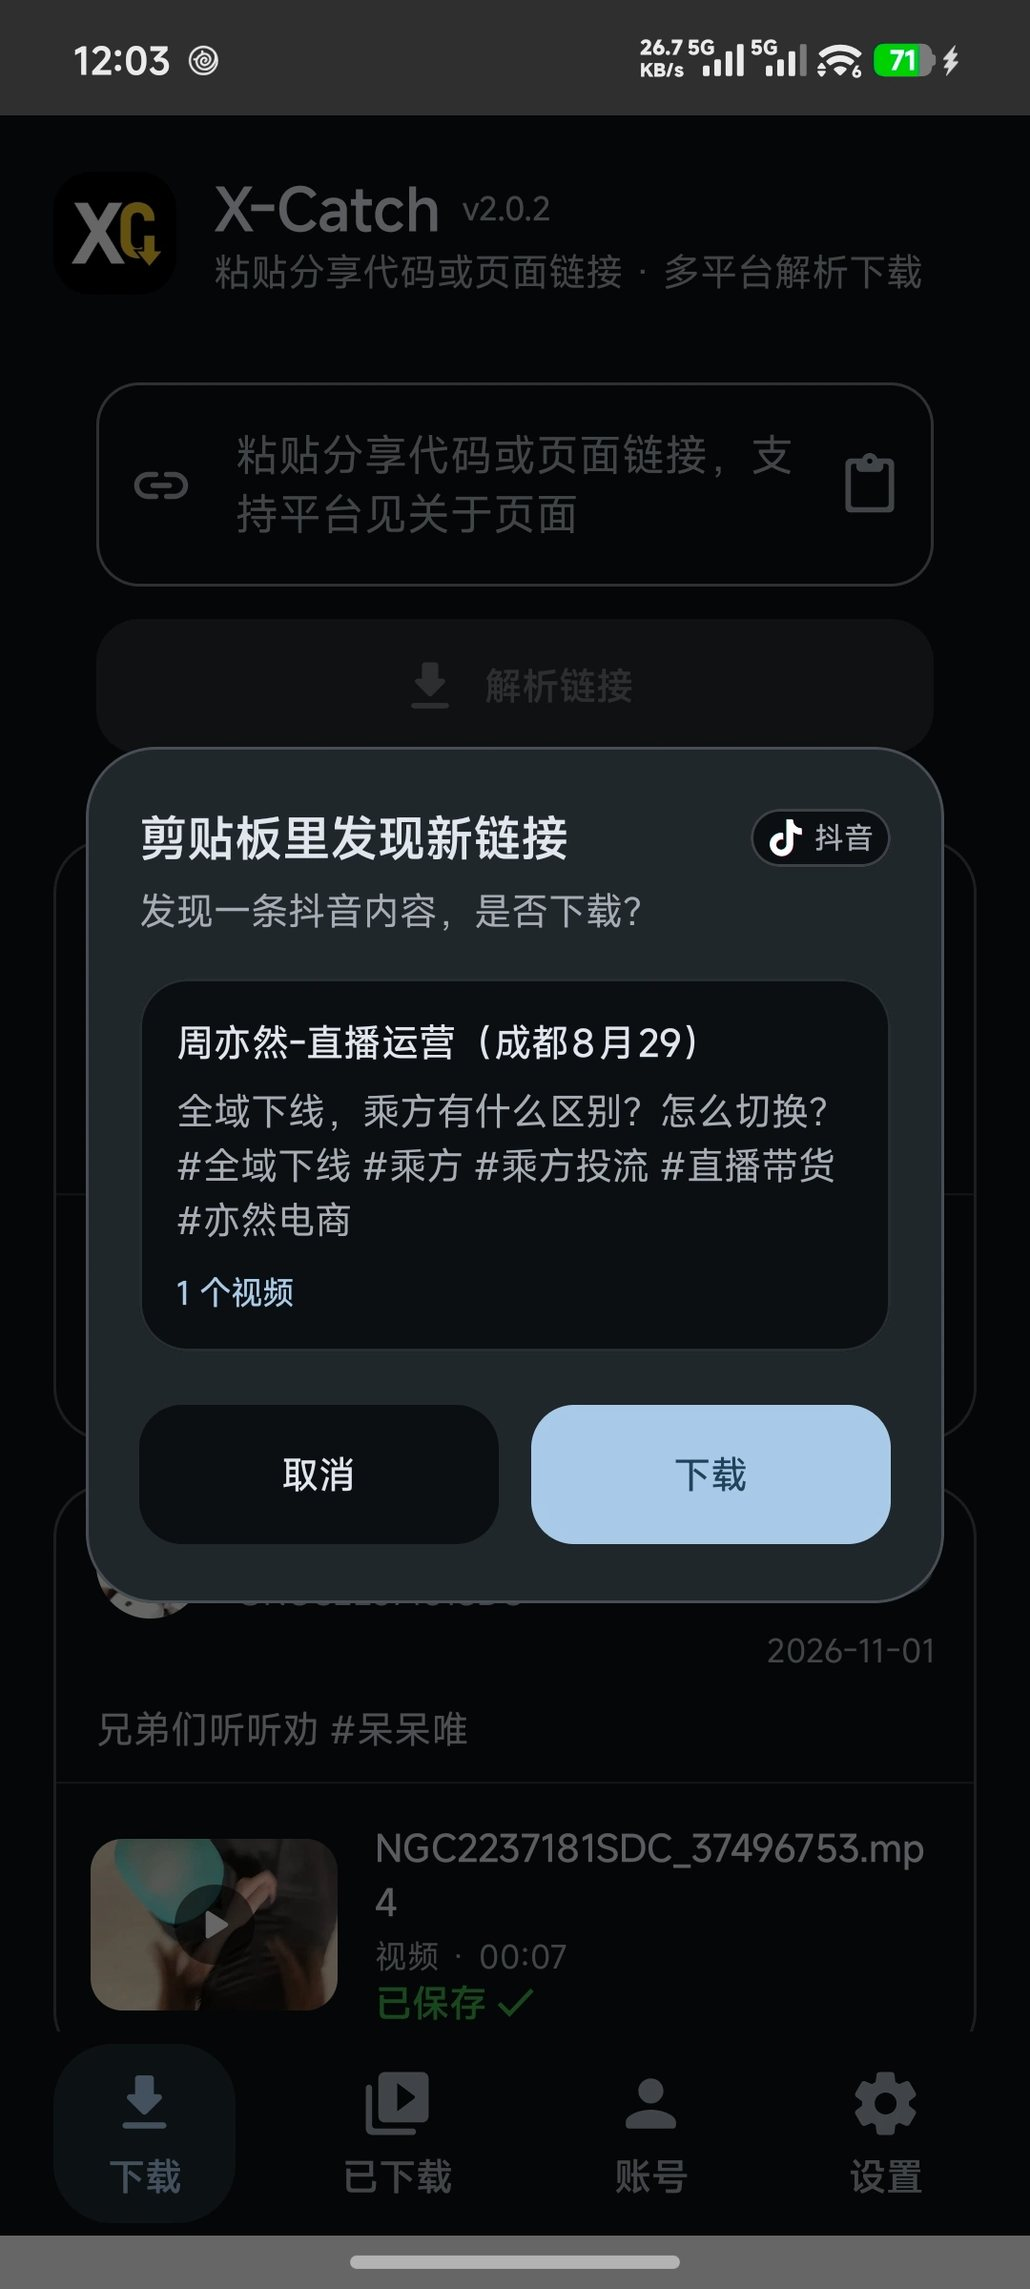
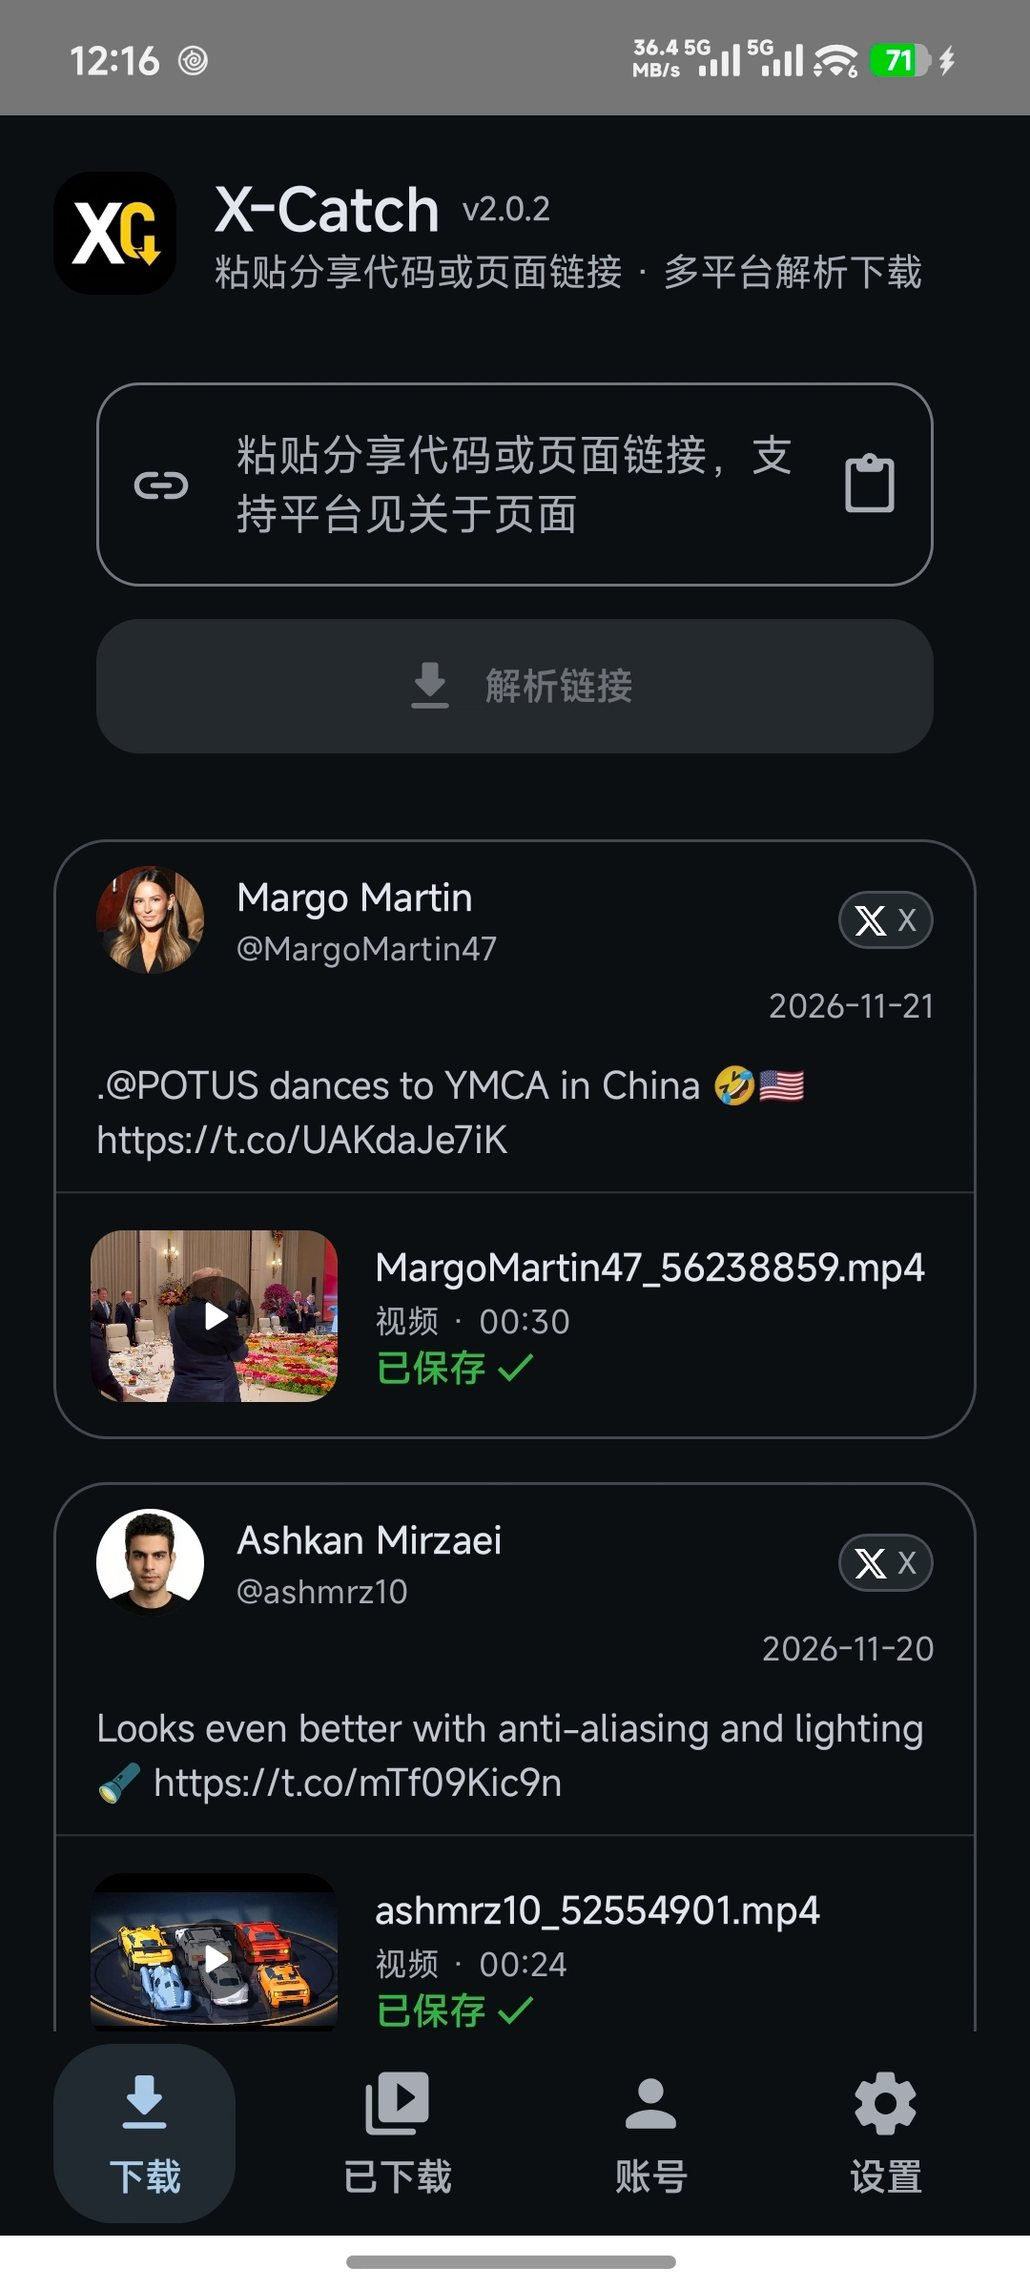
首页主图换新，剪贴板识别截图独立展示

diff --git a/index.html b/index.html
@@ -5,7 +5,7 @@
 <meta name="viewport" content="width=device-width, initial-scale=1.0">
 <title>X-Catch — 多平台视频与图片下载器 | Multi-platform Video &amp; Image Downloader</title>
 <meta name="description" content="X-Catch 是 Android 上的多平台视频与图片下载工具：支持 X/Twitter、TikTok、抖音、快手、微博、哔哩哔哩、小红书。粘贴分享链接即可解析并下载无水印视频与原始图片，完全免费、无广告、无需编解码器，公开内容免登录，全球 10 万+ 用户的选择。">
-<link rel="stylesheet" href="style.css?v=5">
+<link rel="stylesheet" href="style.css?v=6">
 <link rel="icon" href="assets/icons/app-icon.png">
 <script async src="https://www.googletagmanager.com/gtag/js?id=G-7H0617LCT7"></script>
 <script>
@@ -48,7 +48,7 @@
       <div class="phone-wrap">
         <div class="phone">
           <div class="phone-notch"></div>
-          <img class="phone-screen" src="assets/app-screenshot.jpg" alt="X-Catch 主界面">
+          <img class="phone-screen" src="assets/app-screenshot.jpg" alt="X-Catch 主界面 · 已保存视频">
         </div>
       </div>
     </div>
@@ -104,6 +104,26 @@
       <div class="f-icon">📁</div>
       <h3 data-i18n="f6t">支持多平台解析下载</h3>
       <p data-i18n="f6d">X、TikTok、抖音、快手、微博、哔哩哔哩、小红书一站支持；视频与图片统一保存到 DCIM/X-Catch，相册立刻可见。</p>
+    </div>
+  </section>
+
+  <!-- ============ 分享 / 粘贴 / 剪贴板识别 ============ -->
+  <section class="card capture-card">
+    <div class="phone-wrap">
+      <div class="phone">
+        <div class="phone-notch"></div>
+        <img class="phone-screen" src="assets/app-screenshot-clipboard.jpg" alt="X-Catch 从剪贴板识别到抖音分享内容">
+      </div>
+    </div>
+    <div class="capture-copy">
+      <span class="capture-eyebrow" data-i18n="capEyebrow">三种识别方式</span>
+      <h2 data-i18n="capTitle">分享、粘贴、剪贴板，都能识别</h2>
+      <p data-i18n="capDesc">从抖音、快手、小红书等 App 直接把内容分享到 X-Catch；也可以粘贴分享链接或整段分享代码。复制链接后回到 App，剪贴板里的内容还会自动识别，不用手动从文案里找链接。</p>
+      <ul class="account-points">
+        <li data-i18n="capP1">直接分享：从源 App 分享到 X-Catch</li>
+        <li data-i18n="capP2">粘贴链接 / 分享代码：混在整段文案里也能提取</li>
+        <li data-i18n="capP3">剪贴板识别：复制后回到 App 自动提示下载</li>
+      </ul>
     </div>
   </section>
 
@@ -174,6 +194,12 @@
       f4t: "轻量合成 MP4", f4d: "内置合成引擎，无需 FFmpeg，APK 仅约 15MB。",
       f5t: "登录可选 · 加密保存", f5d: "公开内容免登录；X 登录仅用于受限内容，登录态经 Android Keystore + AES-GCM 加密，永不上传。",
       f6t: "支持多平台解析下载", f6d: "X、TikTok、抖音、快手、微博、哔哩哔哩、小红书一站支持；视频与图片统一保存到 DCIM/X-Catch，相册立刻可见。",
+      capEyebrow: "三种识别方式",
+      capTitle: "分享、粘贴、剪贴板，都能识别",
+      capDesc: "从抖音、快手、小红书等 App 直接把内容分享到 X-Catch；也可以粘贴分享链接或整段分享代码。复制链接后回到 App，剪贴板里的内容还会自动识别，不用手动从文案里找链接。",
+      capP1: "直接分享：从源 App 分享到 X-Catch",
+      capP2: "粘贴链接 / 分享代码：混在整段文案里也能提取",
+      capP3: "剪贴板识别：复制后回到 App 自动提示下载",
       acctEyebrow: "X 账号登录",
       acctTitle: "登录后，受限内容也能下载",
       acctDesc: "公开内容免登录即可解析。登录 X 账号后，可以下载私密或受保护帖子的视频；登录态仅加密保存在本机，只用于解析，不会在你的账号上发布或修改任何内容，随时可退出并一键清除。",
@@ -214,6 +240,12 @@
       f4t: "Lightweight MP4", f4d: "Built-in muxer — no FFmpeg required. APK only ~15MB.",
       f5t: "Login Optional · Encrypted", f5d: "Public content needs no login; X sign-in is only for restricted posts. Login state is encrypted with Android Keystore + AES-GCM, never uploaded.",
       f6t: "Multi-platform Downloads", f6d: "X, TikTok, Douyin, Kuaishou, Weibo, Bilibili and Xiaohongshu in one app — videos and images land together in DCIM/X-Catch, visible in your gallery instantly.",
+      capEyebrow: "THREE WAYS TO CAPTURE",
+      capTitle: "Share, paste or clipboard — it just works",
+      capDesc: "Share content straight from Douyin, Kuaishou, Xiaohongshu and other apps into X-Catch, or paste a share link or the entire share text. Copy a link and return to the app — clipboard content is detected automatically, so you never have to dig the URL out of the text.",
+      capP1: "Direct share: send from the source app to X-Catch",
+      capP2: "Paste a link or share text: the URL is extracted automatically",
+      capP3: "Clipboard detection: copy, return to the app, get a download prompt",
       acctEyebrow: "X ACCOUNT",
       acctTitle: "Sign in to download restricted posts",
       acctDesc: "Public content works without signing in. Sign in to X to download videos from private or protected posts. Your login state is encrypted and stored only on this device, used solely for parsing — X-Catch never posts or changes anything on your account, and you can sign out and clear it at any time.",

diff --git a/style.css b/style.css
@@ -186,7 +186,21 @@ a:hover { text-decoration: underline; }
   box-shadow: var(--shadow);
 }
 
-.account-eyebrow {
+.capture-card {
+  display: grid;
+  grid-template-columns: 250px minmax(0, 1fr);
+  gap: 48px;
+  align-items: center;
+  padding: 36px;
+  margin: 20px 0;
+  background:
+    radial-gradient(circle at 15% 20%, rgba(29, 155, 240, 0.16), transparent 42%),
+    var(--card);
+  box-shadow: var(--shadow);
+}
+
+.account-eyebrow,
+.capture-eyebrow {
   display: inline-flex;
   align-items: center;
   padding: 5px 10px;
@@ -199,14 +213,16 @@ a:hover { text-decoration: underline; }
   text-transform: uppercase;
 }
 
-.account-copy h2 {
+.account-copy h2,
+.capture-copy h2 {
   margin: 12px 0 14px;
   font-size: 28px;
   line-height: 1.25;
   letter-spacing: -0.5px;
 }
 
-.account-copy p {
+.account-copy p,
+.capture-copy p {
   margin: 0;
   max-width: 620px;
   color: var(--text-dim);
@@ -420,6 +436,9 @@ footer a:hover { color: var(--accent); }
   .phone-wrap { margin-top: 8px; }
   .account-card { grid-template-columns: 1fr; gap: 30px; padding: 24px; }
   .account-copy h2 { font-size: 24px; }
+  .capture-card { grid-template-columns: 1fr; gap: 30px; padding: 24px; }
+  .capture-copy { order: -1; }
+  .capture-copy h2 { font-size: 24px; }
 }
 @media (max-width: 480px) {
   .hero-text h1 { font-size: 32px; }
